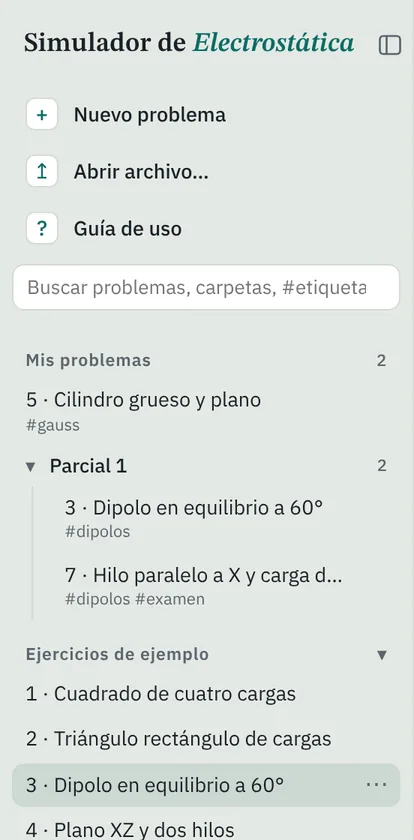
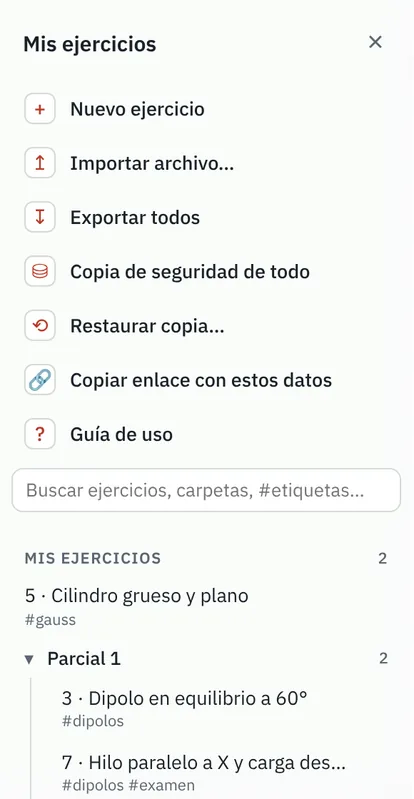
Electrostática: barra lateral como Mis ejercicios (acciones, nombres, cristal, copia de seguridad, restaurar y enlace con datos)
Claude-Session: https://claude.ai/code/session_01XuJSRVffjjUytH5HgdPCBq

diff --git a/fuente/shell.html b/fuente/shell.html
@@ -117,7 +117,7 @@ select.in { font-family: var(--f-ui); padding-right: 4px }
 body { font: 14px/1.45 var(--f-ui); margin: 0 }
 .app { display: grid; grid-template-columns: 276px minmax(0, 1fr); min-height: 100vh; min-height: 100dvh }
 .app.closed { grid-template-columns: 0 minmax(0, 1fr) }
-.side { position: sticky; top: 0; height: 100vh; height: 100dvh; background: var(--side); border-right: 1px solid var(--line); display: flex; flex-direction: column; overflow: hidden; padding-left: env(safe-area-inset-left, 0px); min-width: 0 }
+.side { position: sticky; top: 0; height: 100vh; height: 100dvh; background: var(--vidrio-fuerte); -webkit-backdrop-filter: var(--blur); backdrop-filter: var(--blur); border-right: 1px solid var(--vidrio-borde); display: flex; flex-direction: column; overflow: hidden; padding-left: env(safe-area-inset-left, 0px); min-width: 0 }
 .app.closed .side { visibility: hidden; border: 0 }
 .side-h { display: flex; align-items: center; gap: 8px; padding: 14px 10px 8px 16px }
 .logo { font: 600 18px/1.1 var(--f-math); margin-right: auto; white-space: nowrap }
@@ -132,7 +132,7 @@ body { font: 14px/1.45 var(--f-ui); margin: 0 }
 .side-btn .ic { width: 22px; height: 22px; border-radius: 6px; display: inline-grid; place-items: center; background: var(--panel); border: 1px solid var(--line); color: var(--accent); font-size: 14px; line-height: 1; flex: 0 0 auto }
 .side-list { flex: 1; overflow-y: auto; padding: 4px 8px 16px }
 .sec { margin-top: 10px }
-.sec-h { display: flex; justify-content: space-between; align-items: center; width: 100%; border: 0; background: none; font: 600 11.5px var(--f-ui); letter-spacing: .04em; color: var(--muted); padding: 5px 9px; text-align: left; border-radius: 6px }
+.sec-h { display: flex; justify-content: space-between; align-items: center; width: 100%; border: 0; background: none; font: 600 11px var(--f-ui); letter-spacing: .06em; text-transform: uppercase; color: var(--muted); padding: 5px 9px; text-align: left; border-radius: 6px }
 button.sec-h[aria-expanded] { cursor: pointer }
 button.sec-h[aria-expanded]:hover { color: var(--ink) }
 .sec-l { display: flex; flex-direction: column; gap: 1px }
@@ -306,17 +306,20 @@ body { display: flow-root }
   <aside class="side" id="side" aria-label="Problemas">
     <div class="side-h"><span class="logo">Simulador de <i>Electrostática</i></span><button id="side-close" class="iconbtn" aria-label="Cerrar barra lateral" title="Cerrar barra lateral"><svg viewBox="0 0 24 24" fill="none" stroke="currentColor" stroke-width="1.8" aria-hidden="true"><rect x="3" y="4" width="18" height="16" rx="3"/><path d="M9 4v16"/></svg></button></div>
     <div class="side-act">
-      <a href="../../" class="side-btn" data-solo-web><span class="ic">←</span>Todas las herramientas</a>
-      <button id="new" class="side-btn"><span class="ic">+</span>Nuevo problema</button>
-      <button id="open" class="side-btn"><span class="ic">↥</span>Abrir archivo…</button>
+      <button id="new" class="side-btn"><span class="ic">+</span>Nuevo ejercicio</button>
+      <button id="open" class="side-btn"><span class="ic">↥</span>Importar archivo…</button>
+      <button id="save-lib" class="side-btn"><span class="ic">↧</span>Exportar todos</button>
+      <button id="copia" class="side-btn" data-solo-web title="Un solo archivo con los ejercicios de todas las herramientas"><span class="ic">⛁</span>Copia de seguridad de todo</button>
+      <button id="restaura" class="side-btn" data-solo-web><span class="ic">⟲</span>Restaurar copia…</button>
+      <button id="enlace" class="side-btn" data-solo-web title="Copia un enlace que abre el simulador con el ejercicio de ahora"><span class="ic">🔗</span>Copiar enlace con estos datos</button>
       <button id="guide-open" class="side-btn"><span class="ic">?</span>Guía de uso</button>
       <input type="file" id="file" accept=".json,.emsim,application/json" multiple hidden>
-      <input type="search" id="search" class="search" placeholder="Buscar problemas, carpetas, #etiquetas…" aria-label="Buscar problemas" autocomplete="off">
+      <input type="file" id="file-copia" accept=".json,application/json" hidden>
+      <input type="search" id="search" class="search" placeholder="Buscar ejercicios, carpetas, #etiquetas…" aria-label="Buscar ejercicios" autocomplete="off">
     </div>
     <div class="side-list" id="side-list"></div>
     <div class="side-f">
-      <button id="save-lib" class="side-btn"><span class="ic">↧</span>Guardar todos mis problemas</button>
-      <p>Archivos <code>.emsim.json</code>. También puedes arrastrarlos a la página.</p>
+      <p>Se guardan en este navegador. Exporta un archivo <code>.emsim.json</code> para llevarlos a otro equipo; también puedes arrastrarlo aquí. Haz de vez en cuando una copia de seguridad de todo: si borras los datos del navegador, se pierden.</p>
       <p class="ver"><button id="ver" class="linkbtn" title="Ver las novedades">Versión <span class="ver-n"></span></button></p>
       <p class="legal" data-solo-web><a href="../../contacto.html">Contacto</a> · <a href="mailto:danijimzzz30@gmail.com?subject=Error%20en%20Electrost%C3%A1tica">Informar de un error</a> · <a href="../../aviso-legal.html">Aviso legal</a> · <a href="../../privacidad.html">Privacidad</a> · <a href="../../cookies.html">Cookies</a></p>
     </div>
@@ -341,7 +344,7 @@ body { display: flow-root }
       </div>
     </div>
     <div class="meta" id="meta" hidden><label>Carpeta <input id="folder" class="in" list="folders-dl" placeholder="sin carpeta" autocomplete="off"></label><label>Etiquetas <input id="tags" class="in" placeholder="examen, dipolos" autocomplete="off"></label><datalist id="folders-dl"></datalist></div>
-    <div class="banner" id="banner" hidden><span>Es un ejercicio de ejemplo: puedes tocarlo, pero para conservar los cambios guárdalo como tuyo.</span><button id="keep" class="btn ghost">Guardar en Mis problemas</button></div>
+    <div class="banner" id="banner" hidden><span>Es un ejercicio de ejemplo: puedes tocarlo, pero para conservar los cambios guárdalo como tuyo.</span><button id="keep" class="btn ghost">Guardar en Mis ejercicios</button></div>
     <section class="panel stmt"><header><h2>Enunciado</h2></header><textarea id="statement" aria-label="Enunciado" placeholder="Escribe o pega aquí el enunciado del problema (opcional)."></textarea></section>
     <div id="note" hidden></div>
     <div id="errors" hidden></div>
@@ -424,15 +427,15 @@ body { display: flow-root }
 
       <section id="g-elegir">
         <h3>2 · Elegir un problema</h3>
-        <figure style="max-width:320px"><img data-img="lateral" alt="Barra lateral con las secciones Mis problemas y ejercicios de ejemplo" width="414" height="840"></figure>
+        <figure style="max-width:320px"><img data-img="lateral" alt="Barra lateral con las secciones Mis ejercicios y ejercicios de ejemplo" width="414" height="840"></figure>
         <ul>
           <li><b class="sec-name">Ejercicios de ejemplo</b> trae 12 ejercicios ya montados y resueltos. Haz clic en uno para abrirlo.</li>
-          <li><b>Mis problemas</b> son los que creas o guardas tú. <b>Importados</b> son los que abres desde un archivo.</li>
+          <li><b>Mis ejercicios</b> son los que creas o guardas tú. <b>Importados</b> son los que abres desde un archivo.</li>
           <li>El <b>buscador</b> (<kbd>Ctrl</kbd>+<kbd>K</kbd>) busca en el título, el enunciado, la carpeta y las etiquetas. Escribe <code>#examen</code> para filtrar por etiqueta.</li>
           <li>El botón <b>⋯</b> de cada problema abre sus opciones: renombrar, mover a una carpeta, duplicar, guardar en archivo o eliminar.</li>
           <li>Las <b>carpetas</b> se pliegan y despliegan con un clic. El icono de arriba a la derecha oculta la barra para tener más espacio.</li>
         </ul>
-        <p class="tip">Los ejercicios precargados son de ejemplo: puedes tocarlos, pero para conservar los cambios pulsa <b>Guardar en Mis problemas</b> en el aviso verde de arriba.</p>
+        <p class="tip">Los ejercicios precargados son de ejemplo: puedes tocarlos, pero para conservar los cambios pulsa <b>Guardar en Mis ejercicios</b> en el aviso verde de arriba.</p>
       </section>
 
       <section id="g-sol">
@@ -464,7 +467,7 @@ body { display: flow-root }
       <section id="g-editar">
         <h3>5 · Crear y editar un problema</h3>
         <ol>
-          <li>Pulsa <b>Nuevo problema</b> en la barra lateral (o duplica un ejercicio desde su menú <b>⋯</b>).</li>
+          <li>Pulsa <b>Nuevo ejercicio</b> en la barra lateral (o duplica un ejercicio desde su menú <b>⋯</b>).</li>
           <li>Escribe el <b>título</b> arriba y pega el <b>enunciado</b> si quieres tenerlo a mano.</li>
           <li>Añade las <b>fuentes</b> con los botones verdes (<b>+ Carga</b>, <b>+ Hilo</b>, <b>+ Plano</b>, <b>+ Anillo</b>, <b>+ Disco</b>, <b>+ Conductor</b>…). El botón queda marcado: haz clic en el lienzo para colocar la fuente donde quieras, o pulsa otra vez el botón para ponerla en su sitio por defecto.</li>
           <li>Rellena cada tarjeta: el <b>valor</b> es un coeficiente por un símbolo (por ejemplo <code>-1</code> × <code>q0</code>) y las posiciones van en unidades de <code>a</code>. Se admiten <code>5/2</code>, <code>2*sqrt(3)</code>, <code>√7</code> y <code>pi</code>.</li>
@@ -495,7 +498,7 @@ body { display: flow-root }
       <section id="g-guardar">
         <h3>7 · Guardar, compartir y exportar</h3>
         <ul>
-          <li><b>Mis problemas se guardan solos</b> en este navegador. Debajo del título puedes ponerles <b>carpeta</b> y <b>etiquetas</b> para ordenarlos.</li>
+          <li><b>Mis ejercicios se guardan solos</b> en este navegador. Debajo del título puedes ponerles <b>carpeta</b> y <b>etiquetas</b> para ordenarlos.</li>
           <li><b>Guardar archivo</b> (<kbd>Ctrl</kbd>+<kbd>S</kbd>) descarga el problema abierto como <code>.emsim.json</code>; <b>Guardar todos mis problemas</b>, al pie de la barra lateral, los descarga todos en un solo archivo.</li>
           <li>Para pasarlos a otro ordenador o compartirlos, abre ese archivo allí con <b>Abrir archivo…</b> (<kbd>Ctrl</kbd>+<kbd>O</kbd>) o arrástralo sobre la página. Aparecerán en <b>Importados</b>.</li>
           <li><b>Exportar solución</b> genera la solución completa, con enunciado, resultados y desarrollo: como <b>página para imprimir</b> (.html; ábrela y usa Imprimir → Guardar como PDF) o como texto <b>Markdown</b> (.md).</li>

diff --git a/fuente/app.js b/fuente/app.js
@@ -170,10 +170,10 @@
       const list = h('div', open && items.length ? { class: 'sec-l', role: 'list' } : { class: 'sec-l' }, open ? (items.length ? items : empty ? h('p', { class: 'side-empty' }, empty) : null) : null);
       box.append(h('section', { class: 'sec' }, head, list));
     };
-    if (!query || mine.length) section('Mis problemas', null, grouped(mine), query ? '' : 'Aún no tienes problemas propios. Crea uno nuevo o guarda un ejercicio de ejemplo.');
+    if (!query || mine.length) section('Mis ejercicios', null, grouped(mine), query ? '' : 'Aún no tienes ejercicios propios. Crea uno nuevo o guarda un ejercicio de ejemplo.');
     if (imp.length) section('Importados', null, grouped(imp), '');
     if (!query || pres.length) section(Presets.section, 'presetsOpen', pres.map((p) => itemRow({ ref: { kind: 'preset', id: p.key }, title: p.title, actions: [
-      { label: 'Duplicar en Mis problemas', run: () => { const c = addToLib({ title: p.title, statement: p.statement, scene: p.make() }); openRef({ kind: 'lib', id: c.id }); } },
+      { label: 'Duplicar en Mis ejercicios', run: () => { const c = addToLib({ title: p.title, statement: p.statement, scene: p.make() }); openRef({ kind: 'lib', id: c.id }); } },
       { label: 'Guardar en archivo', run: () => saveJSON(slug(p.title) + '.emsim.json', pack([{ title: p.title, statement: p.statement, scene: p.make() }])) },
     ] })), '');
     if (query && !mine.length && !imp.length && !pres.length) box.append(h('p', { class: 'side-empty' }, `Nada coincide con «${$('#search').value}».`));
@@ -761,16 +761,34 @@ ${img ? `<img class="snap" alt="Esquema del problema" src="${img}">` : ''}
       for (const s of c.querySelectorAll('section')) if (s.getBoundingClientRect().top <= top) id = s.id;
       markGuide(id || 'g-vista');
     }, { passive: true });
-    $('#new').addEventListener('click', () => { const it = addToLib({ title: 'Problema sin título', statement: '', scene: blankScene() }); openRef({ kind: 'lib', id: it.id }, { focus: '#title' }); });
+    $('#new').addEventListener('click', () => { const it = addToLib({ title: 'Ejercicio sin título', statement: '', scene: blankScene() }); openRef({ kind: 'lib', id: it.id }, { focus: '#title' }); });
     $('#open').addEventListener('click', () => $('#file').click());
     $('#file').addEventListener('change', (e) => { importFiles([...e.target.files]); e.target.value = ''; });
     $('#save-lib').addEventListener('click', () => saveJSON('mis-problemas.emsim.json', pack(lib.items)));
+    // copia de seguridad de todas las herramientas, restaurarla y enlace con los datos de ahora (las mismas acciones que Mis ejercicios de las demás; solo en la web, donde está biblioteca.js)
+    if ($('#copia') && typeof Biblioteca !== 'undefined') {
+      $('#copia').addEventListener('click', () => {
+        const c = Biblioteca.copia(); if (!c.total) return flash('Todavía no tienes ejercicios guardados en ninguna herramienta');
+        delete c.total; saveJSON(`ciencify-copia-${c.guardado.slice(0, 10)}.copia.json`, c);
+      });
+      $('#restaura').addEventListener('click', () => $('#file-copia').click());
+      $('#file-copia').addEventListener('change', async (e) => {
+        const f = e.target.files[0]; e.target.value = ''; if (!f) return;
+        try { const r = Biblioteca.restaura(JSON.parse(await f.text())); lib = store.get(K_LIB, { items: [] }); renderSidebar(); flash(r.nuevos ? `Copia restaurada: ${r.nuevos} ejercicio${r.nuevos > 1 ? 's' : ''} nuevo${r.nuevos > 1 ? 's' : ''}` : 'La copia no traía nada nuevo'); }
+        catch (err) { flash('No se pudo restaurar: ' + err.message); }
+      });
+      $('#enlace').addEventListener('click', async () => {
+        const d = JSON.stringify({ title: cur.title, statement: cur.statement, folder: cur.folder, tags: cur.tags, scene: scen });
+        const url = location.href.split('#')[0] + '#d=' + btoa(unescape(encodeURIComponent(d))).replace(/\+/g, '-').replace(/\//g, '_').replace(/=+$/, '');
+        try { await navigator.clipboard.writeText(url); flash(url.length > 8000 ? 'Enlace copiado (es muy largo: algunos programas lo cortan)' : 'Enlace copiado: abre el simulador con este ejercicio'); } catch (err) { flash('No se ha podido copiar el enlace'); }
+      });
+    }
     $('#save-cur').addEventListener('click', () => saveJSON(slug(cur.title) + '.emsim.json', pack([cur])));
     $('#export').addEventListener('click', (e) => { e.stopPropagation(); openMenu($('#export-w'), 'export', [
       { label: 'Página para imprimir o PDF (.html)', run: exportHTML },
       { label: 'Texto Markdown (.md)', run: exportMD },
     ]); });
-    $('#keep').addEventListener('click', () => { const it = addToLib({ title: cur.title, statement: cur.statement, scene: scen }); openRef({ kind: 'lib', id: it.id }); flash('Guardado en Mis problemas'); });
+    $('#keep').addEventListener('click', () => { const it = addToLib({ title: cur.title, statement: cur.statement, scene: scen }); openRef({ kind: 'lib', id: it.id }); flash('Guardado en Mis ejercicios'); });
     $('#title').addEventListener('input', (e) => { cur.title = e.target.value; persist(); renderSidebar(); });
     $('#statement').addEventListener('input', (e) => { cur.statement = e.target.value; autosize(e.target); persist(); });
     $('#folder').addEventListener('change', (e) => { cur.folder = e.target.value.trim(); persist(); renderSidebar(); });
@@ -833,6 +851,12 @@ ${img ? `<img class="snap" alt="Esquema del problema" src="${img}">` : ''}
   window.App = { onDrag, endDrag: () => setTimeout(commit, 30), get scen() { return scen; } };
   initControls();
   Canvas.init();
+  // enlace con los datos (#d=…): se abre como un ejercicio de ejemplo que se puede guardar en Mis ejercicios
+  const dEnlace = /[#&]d=([A-Za-z0-9_-]+)/.exec(location.hash);
+  if (dEnlace) {
+    try { const d = JSON.parse(decodeURIComponent(escape(atob(dEnlace[1].replace(/-/g, '+').replace(/_/g, '/'))))); if (d?.scene) store.set(K_CUR, { ref: { kind: 'preset', id: 'enlace' }, title: String(d.title || 'Ejercicio compartido'), statement: String(d.statement || ''), folder: '', tags: [], note: '', scene: d.scene }); } catch (e) { /* enlace roto */ }
+    try { history.replaceState(null, '', location.pathname + location.search); } catch (e) { /* file:// */ }
+  }
   const saved = store.get(K_CUR, null);
   if (saved?.scene && saved.ref) {
     try { cur = { ...saved, scene: validScene(saved.scene) }; scen = cur.scene; resetHistory(); Canvas.fit(); renderSidebar(); renderAll(); }

diff --git a/fuente/version.js b/fuente/version.js
@@ -1009,7 +1009,7 @@ const Version = (() => {
       { v: '0.1', fecha: '2026-10-27', cambios: ['Primera versión: ajusta reacciones moleculares e iónicas por el método algebraico, con una incógnita por especie, el balance de cada elemento y de la carga, los coeficientes enteros y la comprobación átomo a átomo, con una gráfica de los átomos a cada lado y diez reacciones de ejemplo.'] },
     ],
     electrostatica: [
-      { v: '0.8', fecha: '2026-11-16', cambios: ['La página tiene ya pie con Contacto, Aviso legal, Privacidad y Cookies (antes solo estaban en la barra lateral, que en el móvil no se veía) y «Informar de un error» abre un correo con la herramienta ya escrita.', 'Aparece en «Tu espacio» de la portada (últimas visitadas) y tiene el botón ☆ Favorita.', 'Con el teclado, Tab empieza por la cabecera y el contenido, y la barra de Mis ejercicios queda después.', 'Si tu sistema pide reducir el movimiento, las cargas de prueba dibujan su trayectoria de golpe en vez de animarla.', 'La descripción y la teoría incluyen ya todas las fuentes (láminas, cascarones, anillos, discos, conductores, dipolos…).'] },
+      { v: '0.8', fecha: '2026-11-16', cambios: ['La página tiene ya pie con Contacto, Aviso legal, Privacidad y Cookies (antes solo estaban en la barra lateral, que en el móvil no se veía) y «Informar de un error» abre un correo con la herramienta ya escrita.', 'Aparece en «Tu espacio» de la portada (últimas visitadas) y tiene el botón ☆ Favorita.', 'Con el teclado, Tab empieza por la cabecera y el contenido, y la barra de Mis ejercicios queda después.', 'Si tu sistema pide reducir el movimiento, las cargas de prueba dibujan su trayectoria de golpe en vez de animarla.', 'La descripción y la teoría incluyen ya todas las fuentes (láminas, cascarones, anillos, discos, conductores, dipolos…).', 'La barra lateral es la de Mis ejercicios de las demás herramientas: mismas acciones y nombres, aspecto de cristal, y con «Copia de seguridad de todo», «Restaurar copia…» y «Copiar enlace con estos datos».'] },
       { v: '0.7', fecha: '2026-11-08', cambios: ['El modo práctica comprueba las dimensiones: si tu respuesta no sale en N/C, V, N, J… te lo dice, y si sumas términos con unidades distintas señala cuál falla.'] },
       { v: '0.6', fecha: '2026-10-26', cambios: ['Tubo cilíndrico con carga superficial σ y cilindros huecos (con radio interior), para resolver cables coaxiales.', 'Densidades que no son uniformes en esferas y cilindros (ρ₀·r/R, ρ₀·R/r, ρ₀(1 − r/R) y ρ₀(1 − r²/R²)) y en varillas (λ que crece o decrece a lo largo), con Gauss y la carga encerrada.', 'Arcos cargados: semicircunferencias, cuartos de anillo o cualquier ángulo, con el campo y el potencial en el centro.', 'Corteza esférica conductora con radio interior y exterior: si dentro hay una carga centrada, se induce −q en la cara interior y +q en la exterior.', 'Seis ejercicios de ejemplo nuevos con todo esto.', 'La guía enlaza con la herramienta de Condensadores.'] },
       { v: '0.5.1', fecha: '2026-10-23', cambios: ['El simulador tiene ahora su propia dirección, /electromagnetismo/electrostatica/. Tus problemas guardados siguen ahí. El botón «Todas las herramientas» de la barra lateral vuelve a la portada.'] },

diff --git a/pruebas/capturas.js b/pruebas/capturas.js
@@ -1,5 +1,5 @@
 #!/usr/bin/env node
-/* Regenera las capturas de la guía de uso (fuente/guia/*.webp) a partir de publico/index.html,
+/* Regenera las capturas de la guía de uso (fuente/guia/*.webp) a partir de publico/electromagnetismo/electrostatica/index.html,
    con los ejercicios de ejemplo. editar.webp se hace a mano y no se toca.
    Uso: node pruebas/capturas.js && sh fuente/build.sh   (necesita playwright y python3 con Pillow) */
 const fs = require('fs'), os = require('os'), path = require('path'), { execFileSync } = require('child_process');
@@ -24,7 +24,7 @@ im.save(sys.argv[2], 'WEBP', quality=82, method=6)`, png, path.join(guia, nombre
   execFileSync('sh', [path.join(raiz, 'fuente', 'build.sh')]);
   const browser = require('./sin-anuncios.js')(await chromium.launch(exe ? { executablePath: exe } : {}));
   const page = await browser.newPage({ viewport: { width: 1300, height: 836 }, deviceScaleFactor: 2 });
-  await page.goto('file://' + path.join(raiz, 'publico', 'index.html'));
+  await page.goto('file://' + path.join(raiz, 'publico', 'electromagnetismo', 'electrostatica', 'index.html'));
   // biblioteca de ejemplo para la barra lateral: tres problemas propios, dos en una carpeta
   await page.evaluate(() => {
     const it = (key, folder, tags) => { const p = Presets.list.find((x) => x.key === key); return { id: 'g' + key, title: p.title, statement: p.statement, scene: p.make(), origin: 'mio', folder, tags, updated: Date.now() }; };
